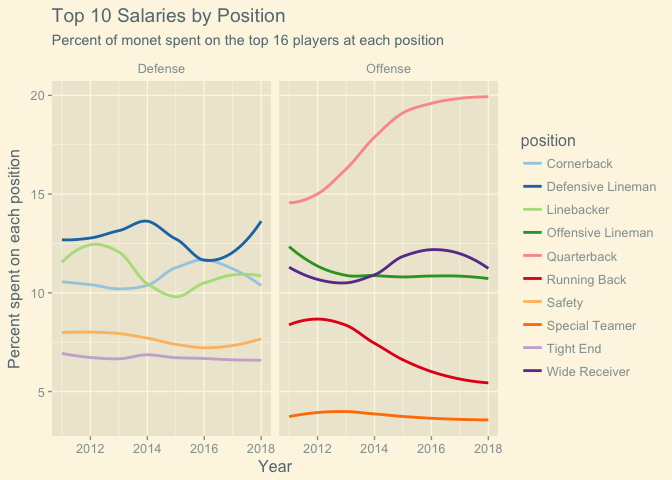
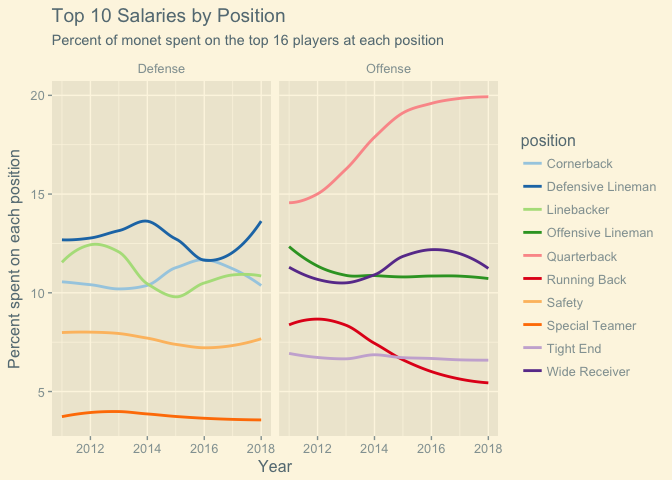
Tidy status + tight end corrected

diff --git a/README.md b/README.md
@@ -13,10 +13,28 @@ data <- readxl::read_xlsx("tidy_tuesday_week2.xlsx") %>%
 df <- data %>% 
   gather(key = "position", value = "salary", position = Cornerback:`Wide Receiver`) %>%
   mutate(salary = salary / 1000000) %>% 
-  mutate(status = "Offense")
+  # mutate(status = "Offense") %>%
+  mutate(
+    status = case_when(
+      position %in% 
+        c("Cornerback", 
+          "Defensive Lineman", 
+          "Linebacker", 
+          "Safety",
+          "Special Teamer"
+          ) ~ "Defense",
+      position %in%
+        c("Quarterback",
+          "Offensive Lineman",
+          "Running Back",
+          "Tight End",
+          "Wide Receiver"
+        ) ~ "Offense"
+    )
+  )
 
 # Label the defensive positions as such (idk I tidyverse approach to this, sorry)
-df[df$position %in% c("Cornerback", "Defensive Lineman", "Linebacker", "Tight End", "Safety"), "status"] <- "Defense"
+# df[df$position %in% c("Cornerback", "Defensive Lineman", "Linebacker", "Tight End", "Safety"), "status"] <- "Defense"
 
 # Filter out top 16 paid players per year
 df <- df %>% 
